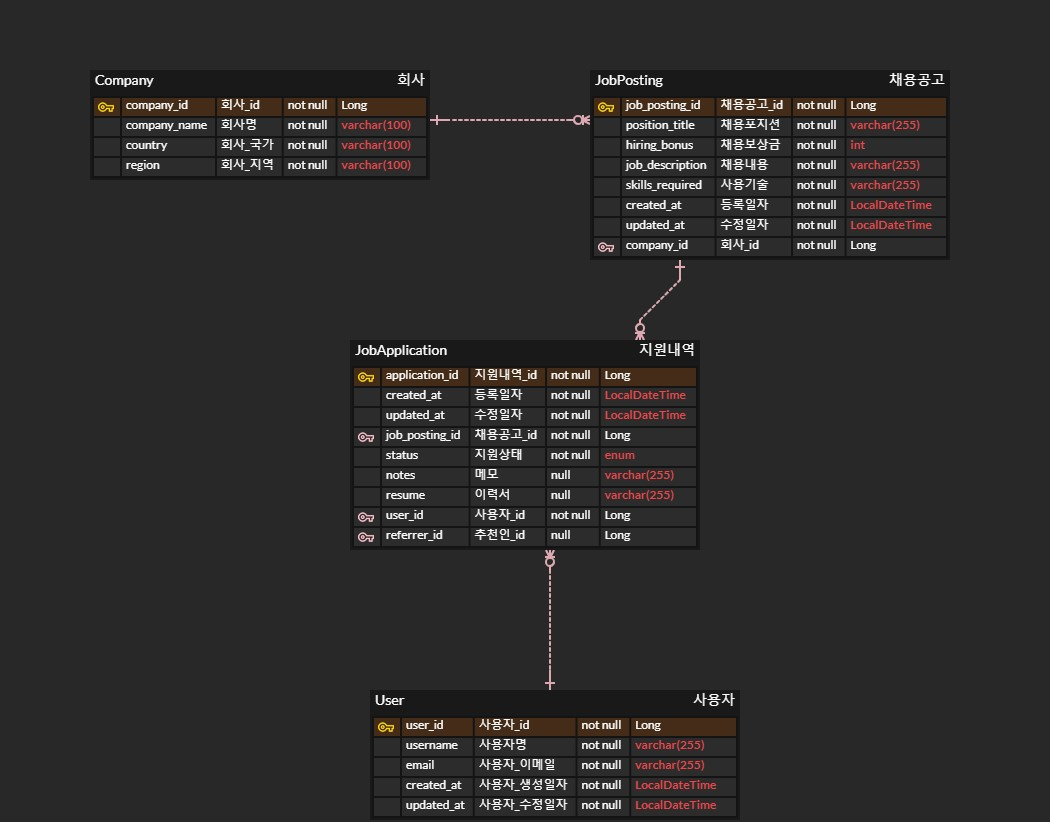
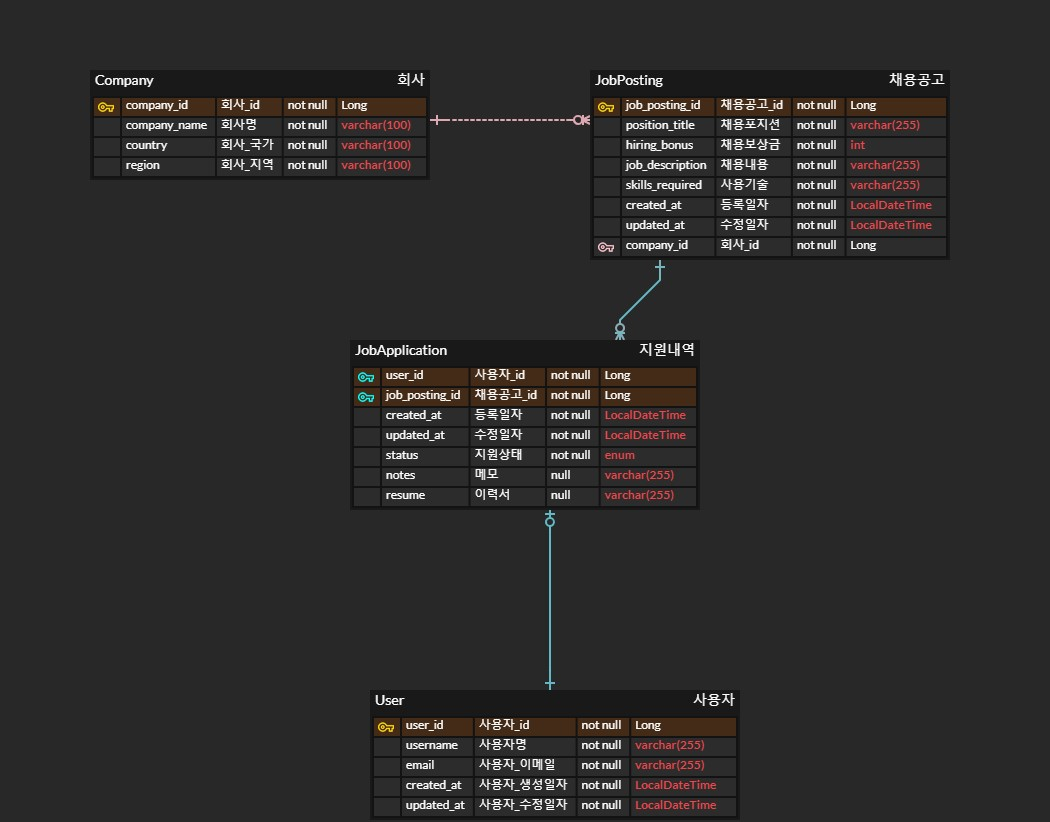
Feat: 사용자 채용공고 지원 기능 완료

diff --git a/src/main/java/com/wanted/job/application/service/ApplicationServiceImpl.java b/src/main/java/com/wanted/job/application/service/ApplicationServiceImpl.java
@@ -1,0 +1,54 @@
+package com.wanted.job.application.service;
+
+
+import org.springframework.stereotype.Service;
+
+import com.wanted.job.application.exception.ApplicationErrorCode;
+import com.wanted.job.application.exception.ApplicationException;
+import com.wanted.job.application.model.dto.ApplicationRequestDTO;
+import com.wanted.job.application.model.entity.Application;
+import com.wanted.job.application.repository.ApplicationRepository;
+import com.wanted.job.common.type.ApplicationStatus;
+import com.wanted.job.jobPosting.exception.JobPostingErrorCode;
+import com.wanted.job.jobPosting.exception.JobPostingException;
+import com.wanted.job.jobPosting.model.entity.JobPosting;
+import com.wanted.job.jobPosting.repository.JobPostingRepository;
+import com.wanted.job.user.model.entity.User;
+import com.wanted.job.user.repository.UserRepository;
+
+import jakarta.transaction.Transactional;
+import lombok.RequiredArgsConstructor;
+import lombok.extern.slf4j.Slf4j;
+
+@Service
+@Slf4j
+@RequiredArgsConstructor
+public class ApplicationServiceImpl implements ApplicationService{
+	private final ApplicationRepository jobApplicationRepository;
+	private final UserRepository userRepository;
+	private final JobPostingRepository jobPostingRepository;
+
+	@Override
+	@Transactional
+	public void jobApplicate(ApplicationRequestDTO request) {
+		User user = userRepository.findById(request.getUserId())
+			.orElseThrow(() -> new ApplicationException(ApplicationErrorCode.USER_NOT_FOUND));
+
+		JobPosting jobPosting = jobPostingRepository.findById(request.getJobPostingId())
+			.orElseThrow(() -> new JobPostingException(JobPostingErrorCode.JOB_POSTING_NOT_FOUND));
+
+		boolean alreadyApplied = jobApplicationRepository.existsByUser_UserIdAndJobPostingId(request.getUserId(), request.getJobPostingId());
+		if (alreadyApplied) {
+			throw new ApplicationException(ApplicationErrorCode.ALREADY_APPLIED);
+		}
+
+		Application jobApplication = Application.builder()
+			.user(user)
+			.jobPosting(jobPosting)
+			.status(ApplicationStatus.PENDING)
+			.resume(request.getResume())
+			.build();
+
+		jobApplicationRepository.save(jobApplication);
+	}
+}

diff --git a/src/main/java/com/wanted/job/jobPosting/controller/JobPostingController.java b/src/main/java/com/wanted/job/jobPosting/controller/JobPostingController.java
@@ -1,6 +1,7 @@
 package com.wanted.job.jobPosting.controller;
 
 import org.springframework.data.domain.Page;
+import org.springframework.http.HttpStatus;
 import org.springframework.http.ResponseEntity;
 import org.springframework.web.bind.annotation.DeleteMapping;
 import org.springframework.web.bind.annotation.GetMapping;
@@ -12,6 +13,8 @@ import org.springframework.web.bind.annotation.RequestMapping;
 import org.springframework.web.bind.annotation.RequestParam;
 import org.springframework.web.bind.annotation.RestController;
 
+import com.wanted.job.jobPosting.exception.JobPostingErrorCode;
+import com.wanted.job.jobPosting.exception.JobPostingException;
 import com.wanted.job.jobPosting.model.dto.JobPostingRequestDTO;
 import com.wanted.job.jobPosting.model.dto.JobPostingResponseDTO;
 import com.wanted.job.jobPosting.model.dto.JobPostingsPagingDTO;
@@ -66,6 +69,11 @@ public class JobPostingController {
 		@RequestParam(defaultValue = "0") int page,
 		@RequestParam(defaultValue = "10") int size
 	){
+		// 검색어 길이 유효성 검사 (예: 최대 50자)
+		if (keyword.length() > 50) {
+			throw new JobPostingException(JobPostingErrorCode.JOB_POSTING_EXCEED_KEYWORD);
+		}
+
 		PagedResponseDTO<JobPostingsPagingDTO> response = jobPostingService.searchJobPostings(keyword, page, size);
 		return ResponseEntity.ok(response);
 	}

diff --git a/src/main/java/com/wanted/job/application/model/entity/Application.java b/src/main/java/com/wanted/job/application/model/entity/Application.java
@@ -13,9 +13,11 @@ import jakarta.persistence.GenerationType;
 import jakarta.persistence.Id;
 import jakarta.persistence.JoinColumn;
 import jakarta.persistence.ManyToOne;
+import jakarta.persistence.OneToOne;
 import jakarta.persistence.Table;
 import lombok.AccessLevel;
 import lombok.AllArgsConstructor;
+import lombok.Builder;
 import lombok.Getter;
 import lombok.NoArgsConstructor;
 
@@ -24,19 +26,16 @@ import lombok.NoArgsConstructor;
 @AllArgsConstructor(access = AccessLevel.PRIVATE)
 @Table(name = "job_application")
 @Entity
+@Builder
 public class Application extends BaseTimeEntity {
 	@Id
 	@GeneratedValue(strategy = GenerationType.IDENTITY)
 	@Column(nullable = false)
 	private Long id;
 
-	@ManyToOne(fetch = FetchType.LAZY)
+	@OneToOne(fetch = FetchType.LAZY)
 	@JoinColumn(name = "user_id", nullable = false)
 	private User user;
-
-	@ManyToOne(fetch = FetchType.LAZY)
-	@JoinColumn(name = "referrer_id")
-	private User referrer;  // 추천인
 
 	@ManyToOne(fetch = FetchType.LAZY)
 	@JoinColumn(name = "job_posting_id", nullable = false)

diff --git a/src/main/java/com/wanted/job/application/controller/ApplicationController.java b/src/main/java/com/wanted/job/application/controller/ApplicationController.java
@@ -1,7 +1,13 @@
 package com.wanted.job.application.controller;
 
+import org.springframework.http.ResponseEntity;
+import org.springframework.web.bind.annotation.PostMapping;
+import org.springframework.web.bind.annotation.RequestBody;
 import org.springframework.web.bind.annotation.RequestMapping;
 import org.springframework.web.bind.annotation.RestController;
+
+import com.wanted.job.application.model.dto.ApplicationRequestDTO;
+import com.wanted.job.application.service.ApplicationService;
 
 import lombok.AllArgsConstructor;
 import lombok.extern.slf4j.Slf4j;
@@ -11,5 +17,11 @@ import lombok.extern.slf4j.Slf4j;
 @RestController
 @AllArgsConstructor
 public class ApplicationController {
+	private final ApplicationService applicationService;
 
+	@PostMapping("/apply")
+	public ResponseEntity<String> applyJobApplication(@RequestBody ApplicationRequestDTO request){
+		applicationService.jobApplicate(request);
+		return ResponseEntity.ok("지원이 완료되었습니다.");
+	}
 }

diff --git a/src/main/java/com/wanted/job/user/model/entity/User.java b/src/main/java/com/wanted/job/user/model/entity/User.java
@@ -2,6 +2,7 @@ package com.wanted.job.user.model.entity;
 
 import java.util.List;
 
+import com.wanted.job.JobApplication;
 import com.wanted.job.application.model.entity.Application;
 import com.wanted.job.common.entity.BaseTimeEntity;
 
@@ -13,6 +14,7 @@ import jakarta.persistence.GeneratedValue;
 import jakarta.persistence.GenerationType;
 import jakarta.persistence.Id;
 import jakarta.persistence.OneToMany;
+import jakarta.persistence.OneToOne;
 import jakarta.persistence.Table;
 import lombok.AccessLevel;
 import lombok.AllArgsConstructor;
@@ -36,6 +38,7 @@ public class User extends BaseTimeEntity {
 	@Column(nullable = false, length = 100)
 	private String email;
 
-	@OneToMany(mappedBy = "user", cascade = CascadeType.ALL, fetch = FetchType.LAZY)
-	private List<Application> applications;
+	@OneToOne(mappedBy = "user", cascade = CascadeType.ALL, fetch = FetchType.LAZY)
+	private Application jobApplication;
+
 }

diff --git a/src/main/java/com/wanted/job/application/exception/ApplicationErrorCode.java b/src/main/java/com/wanted/job/application/exception/ApplicationErrorCode.java
@@ -1,0 +1,19 @@
+package com.wanted.job.application.exception;
+
+import org.springframework.http.HttpStatus;
+
+import com.wanted.job.common.exception.ErrorCode;
+
+import lombok.Getter;
+import lombok.RequiredArgsConstructor;
+
+@Getter
+@RequiredArgsConstructor
+public enum ApplicationErrorCode implements ErrorCode {
+	USER_NOT_FOUND(HttpStatus.NOT_FOUND, "사용자를 찾을 수 없습니다."),
+
+	ALREADY_APPLIED(HttpStatus.ALREADY_REPORTED, "사용자가 이미 채용공고에 지원했습니다.")	;
+
+	private final HttpStatus status;
+	private final String message;
+}

diff --git a/src/main/java/com/wanted/job/jobPosting/exception/JobPostingErrorCode.java b/src/main/java/com/wanted/job/jobPosting/exception/JobPostingErrorCode.java
@@ -10,8 +10,8 @@ import lombok.RequiredArgsConstructor;
 @Getter
 @RequiredArgsConstructor
 public enum JobPostingErrorCode implements ErrorCode {
-	JOB_POSTING_NOT_FOUND(HttpStatus.NOT_FOUND, "존재하지 않는 채용 공고입니다.");
-
+	JOB_POSTING_NOT_FOUND(HttpStatus.NOT_FOUND, "존재하지 않는 채용 공고입니다."),
+	JOB_POSTING_EXCEED_KEYWORD(HttpStatus.LENGTH_REQUIRED, "검색어는 최대 50자 이하이어야 합니다.");
 	private final HttpStatus status;
 	private final String message;
 }

diff --git a/src/main/java/com/wanted/job/application/model/dto/ApplicationRequestDTO.java b/src/main/java/com/wanted/job/application/model/dto/ApplicationRequestDTO.java
@@ -1,0 +1,18 @@
+package com.wanted.job.application.model.dto;
+
+import lombok.AllArgsConstructor;
+import lombok.Builder;
+import lombok.Getter;
+import lombok.NoArgsConstructor;
+import lombok.Setter;
+
+@Getter
+@Setter
+@Builder
+@AllArgsConstructor
+@NoArgsConstructor
+public class ApplicationRequestDTO {
+	private Long jobPostingId;
+	private Long userId;
+	private String resume;
+}

diff --git a/src/main/java/com/wanted/job/common/exception/BaseException.java b/src/main/java/com/wanted/job/common/exception/BaseException.java
@@ -4,7 +4,11 @@ import lombok.Getter;
 import lombok.RequiredArgsConstructor;
 
 @Getter
-@RequiredArgsConstructor
 public class BaseException extends RuntimeException{
 	private final ErrorCode errorCode;
+
+	public BaseException(ErrorCode errorCode) {
+		super(errorCode.getMessage());  // 메시지를 부모 클래스에 전달
+		this.errorCode = errorCode;
+	}
 }

diff --git a/src/main/java/com/wanted/job/application/exception/ApplicationException.java b/src/main/java/com/wanted/job/application/exception/ApplicationException.java
@@ -1,0 +1,11 @@
+package com.wanted.job.application.exception;
+
+import com.wanted.job.common.exception.BaseException;
+import com.wanted.job.jobPosting.exception.JobPostingErrorCode;
+
+public class ApplicationException extends BaseException {
+	public ApplicationException(ApplicationErrorCode errorCode){
+		super(errorCode);
+	}
+
+}

diff --git a/src/main/java/com/wanted/job/application/repository/ApplicationRepository.java b/src/main/java/com/wanted/job/application/repository/ApplicationRepository.java
@@ -5,4 +5,5 @@ import org.springframework.data.jpa.repository.JpaRepository;
 import com.wanted.job.application.model.entity.Application;
 
 public interface ApplicationRepository extends JpaRepository<Application, Long> {
+	boolean existsByUser_UserIdAndJobPostingId(Long userId, Long jobPostingId);
 }

diff --git a/src/main/java/com/wanted/job/jobPosting/repository/JobPostingRepository.java b/src/main/java/com/wanted/job/jobPosting/repository/JobPostingRepository.java
@@ -17,4 +17,5 @@ public interface JobPostingRepository extends JpaRepository<JobPosting, Long> {
 		"jp.company.name LIKE %:keyword%")
 	Page<JobPosting> findByKeywordInAllFields(@Param("keyword") String keyword, Pageable pageable);
 
+
 }
